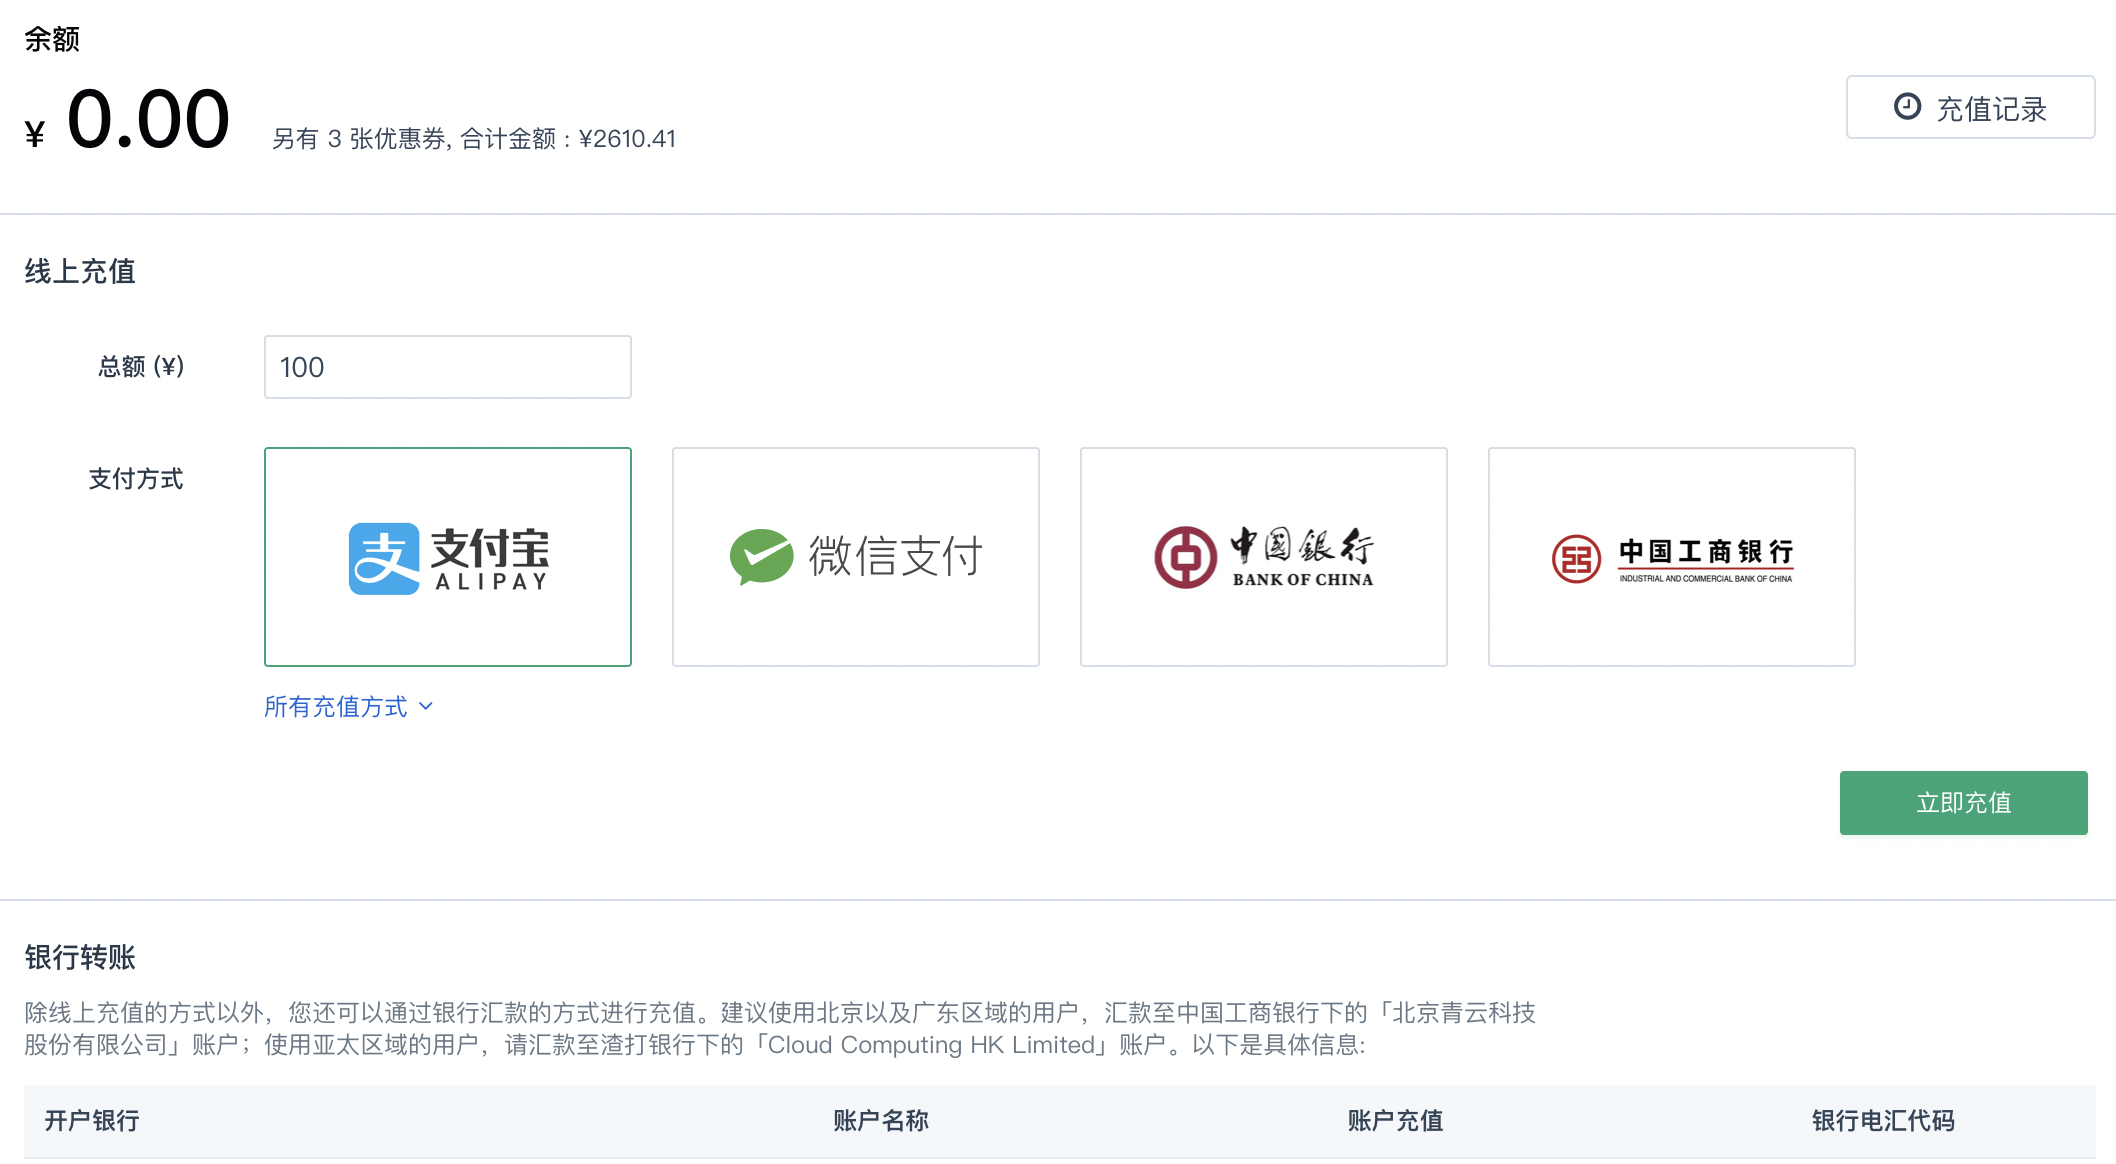
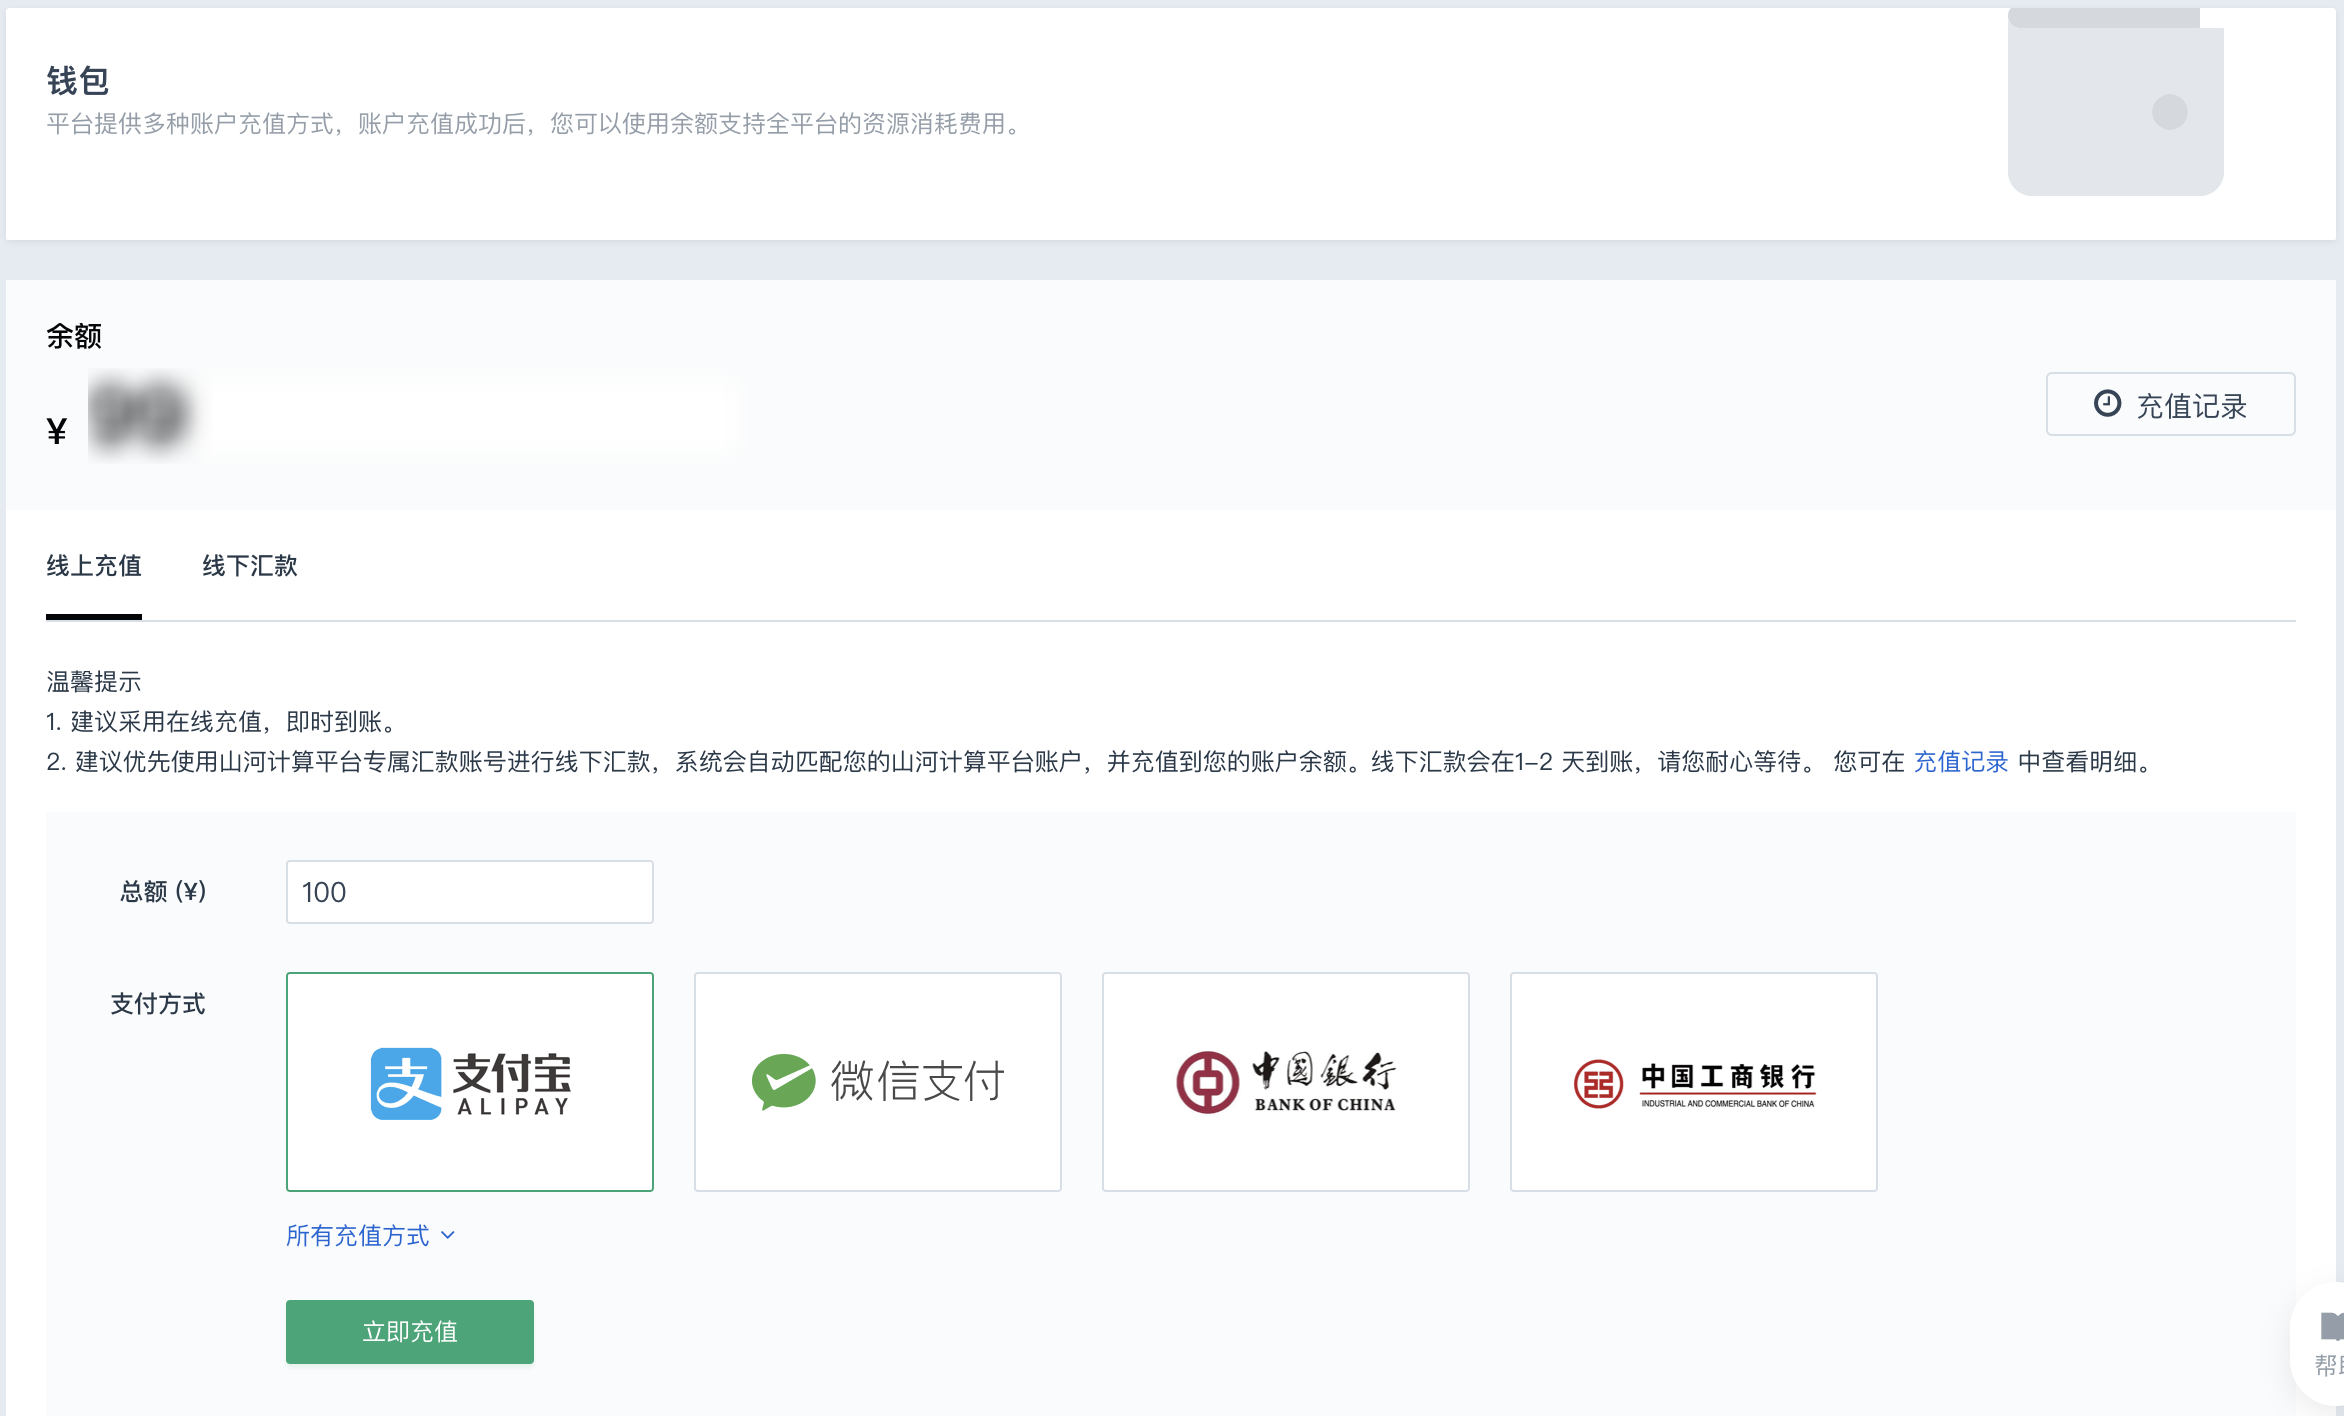
update bill_center: optimize offline transfer process

diff --git a/content/services/bill_center/manual/finance.md b/content/services/bill_center/manual/finance.md
@@ -8,19 +8,51 @@ keyword: 账单, 发票, 订单, 充值, 费用
 
 财务管理提供钱包及优惠券的管理功能。
 
-## 钱包
-
-![充值](../../_images/recharge.png)
+## 钱包/充值
 
 支持查看账户余额、充值记录以及为账户充值。
 
-- 查看充值记录：点击**充值记录**，弹出**充值记录**页面，即可查看每次充值金额及时间。
-- 线上充值：输入充值金额，选择支付方式，点击**立即充值**。
-- 银行转账：除线上充值，还可通过银行转账汇款至「北京青云科技股份有限公司」账户。
+![充值](../../_images/recharge.png)
 
-> 说明：
->
-> 单笔充值金额最少 ¥ 100，若充值金额大于 ¥ 10000 需要使用银行转账。
+- **查看充值记录**
+
+  在余额数值后，点击**充值记录**，弹出**充值记录**页面，即可查看每次充值金额及时间。
+
+- **充值**
+
+  支持线上和线下两种方式进行充值。
+
+  >**说明**
+  >
+  >建议您采用线上充值方式，可即时到账。
+  >
+  >单笔充值金额最少 ¥ 100，若充值金额大于 ¥ 10000 需要使用线下汇款方式。
+
+  - **线上充值**（推荐）
+
+    在**线上充值**页面，输入充值金额，选择支付方式，点击**立即充值**。
+
+    
+
+  - **线下汇款**（专属汇款账号）
+
+    **青云线下汇款流程现已全面升级为招商银行专属账号（即青云银企直联专属收款账号，以下简称青云专属汇款账号），充值到账速度较之前的银行转账方式有大幅度提升**，方便客户、企业和银行对各个账户内资金的记录、管理。
+
+    > **注意**
+    >
+    > 建议您采用新的线下汇款流程（银企直联），旧版的线上银行汇款模式将于6个月后下线，请及时将汇款账号变更为青云专属汇款账号。
+
+    1.点击**获取专属汇款账号**，便可在页面查看到您的汇款专属账号。您也可以输入手机号，然后点击**立即发送**，将账号信息发送到您的手机。
+
+    2.通过银行柜台或网银向此专属汇款账号汇款。汇款成功后，系统会自动匹配您的青云账户，并充值到您的账户余额。到账时间一般为：招行汇款 1-2 天，跨行汇款 3-5 天（具体到账时间以银行的实际到账时间为准）。
+
+  - **银行转账**（旧版）
+
+    使用北京以及广东区域的用户，汇款至中国工商银行下的「北京青云科技股份有限公司」账户；使用亚太区域的用户，请汇款至渣打银行下的「Cloud Computing HK Limited」账户。具体汇款账户信息以界面提供为准。
+
+    > **注意**
+    >
+    > 请您在转账或汇款时，在留言栏或备注栏注明您单位名称或姓名、以及您在云平台的登录邮箱，以便于我们区分汇款来源、并及时登记到您名下。建议您在完成汇款后把银行回单发送给 contactus@yunify.com 。
 
 
 

diff --git a/content/services/bill_center/manual/bills.md b/content/services/bill_center/manual/bills.md
@@ -30,7 +30,7 @@ keyword: 账单, 发票, 订单, 充值, 费用
 
 您可以在**消费预估**页面查看从现在开始的未来7天内的消费预估，包括按需计费及预留合约/包年包月的消费预估。
 
-> 说明：
+> **说明**
 >
 > 费用预估仅供参考，系统将根据实际使用情况进行费用收取。
 
@@ -44,10 +44,9 @@ keyword: 账单, 发票, 订单, 充值, 费用
 
 
 
->**说明**：
+>**说明**
 >
 >在按项目预估的统计中，包括了项目中目前所有资源的预估。如果一个合约内的资源属于多个项目，将根据项目将预留合约的费用进行拆分预估。
 >
 >例如，用户有一个预留合约总共包括5台云服务器产品，预留合约自动续费的费用是500元，合约中有4台属于项目A，1台属于项目B，合约在30天内会到期自动续费，那项目A的这4台资源的预估为400元，项目B中这1台的预估为100元。
-
 

diff --git a/content/services/bill_center/manual/order/renewal.md b/content/services/bill_center/manual/order/renewal.md
@@ -26,7 +26,7 @@ keyword: 账单, 发票, 订单, 充值, 费用
 
   您可以在产品到期前点击**立即续约**进行续约。
 
-  > **注意**：
+  > **注意**
   >
   > 提交续约之后，需要完成支付才能成功续约。
 
